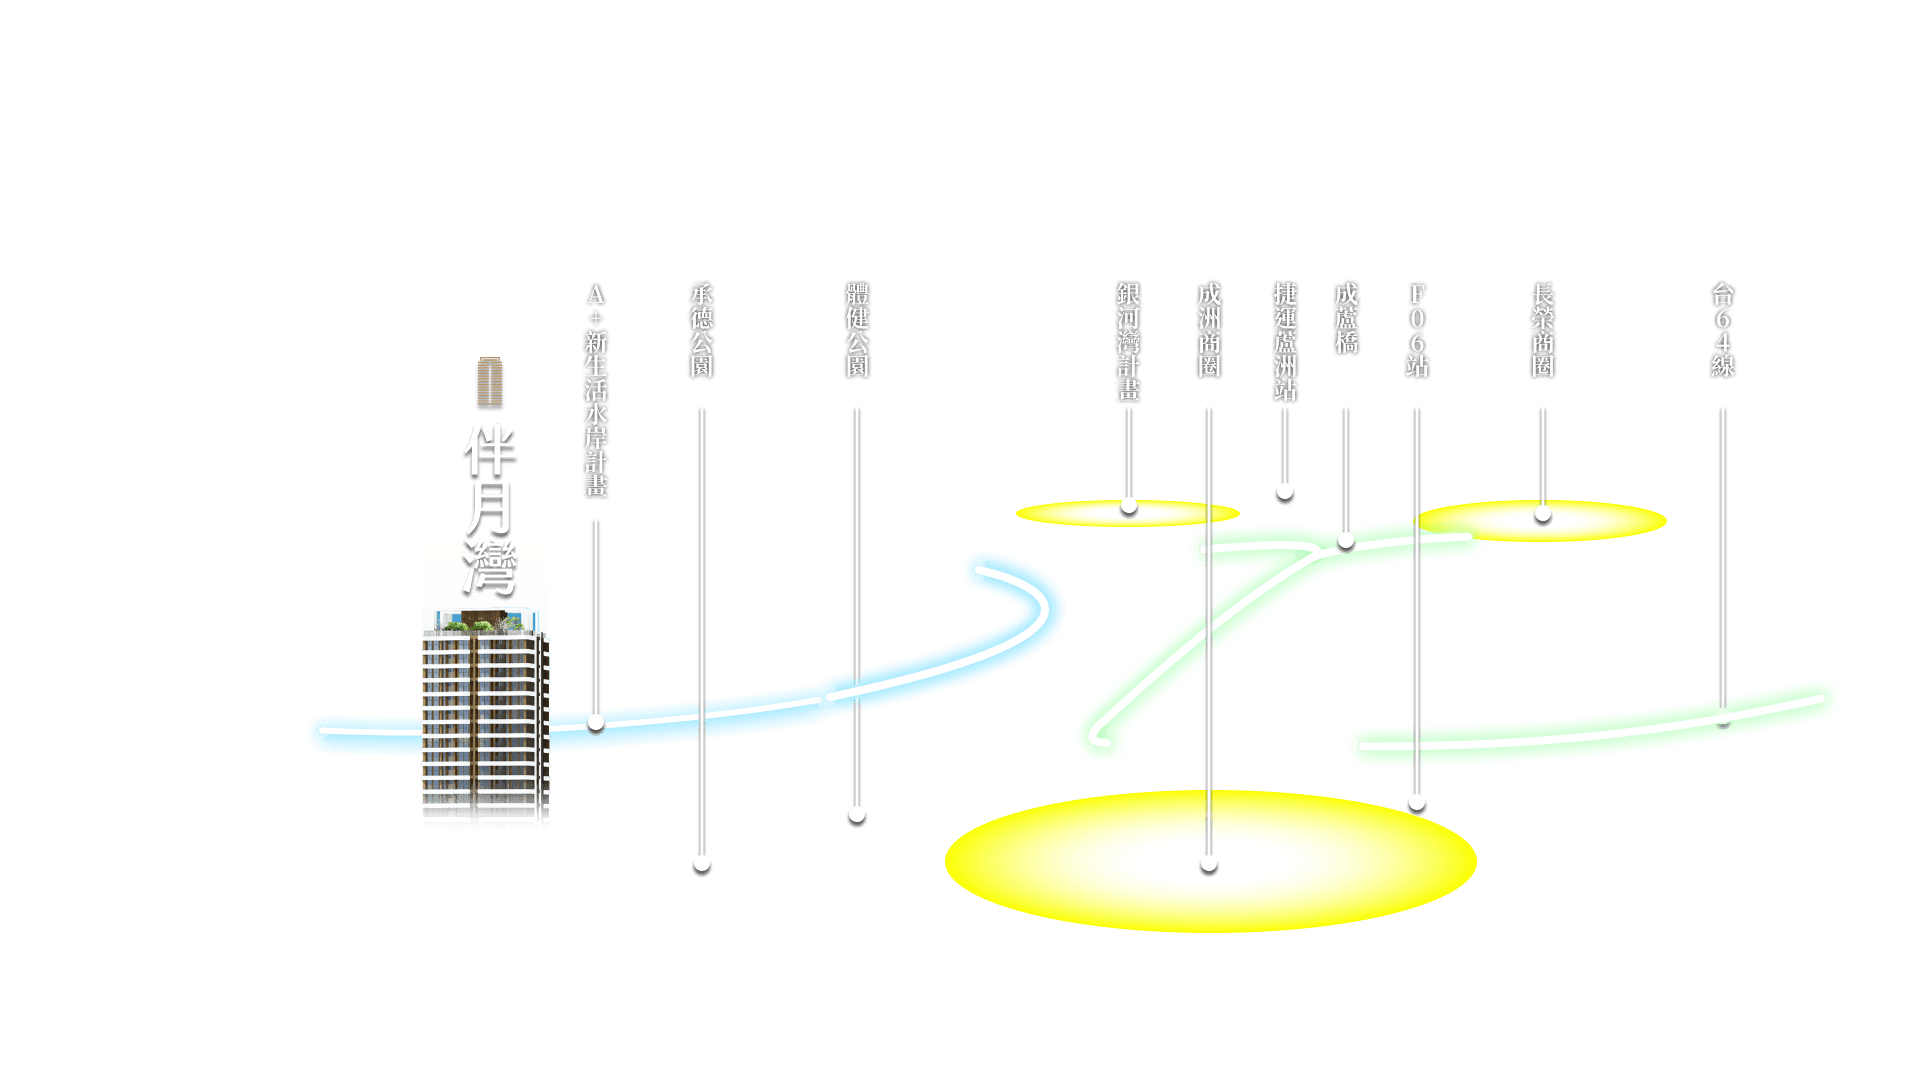
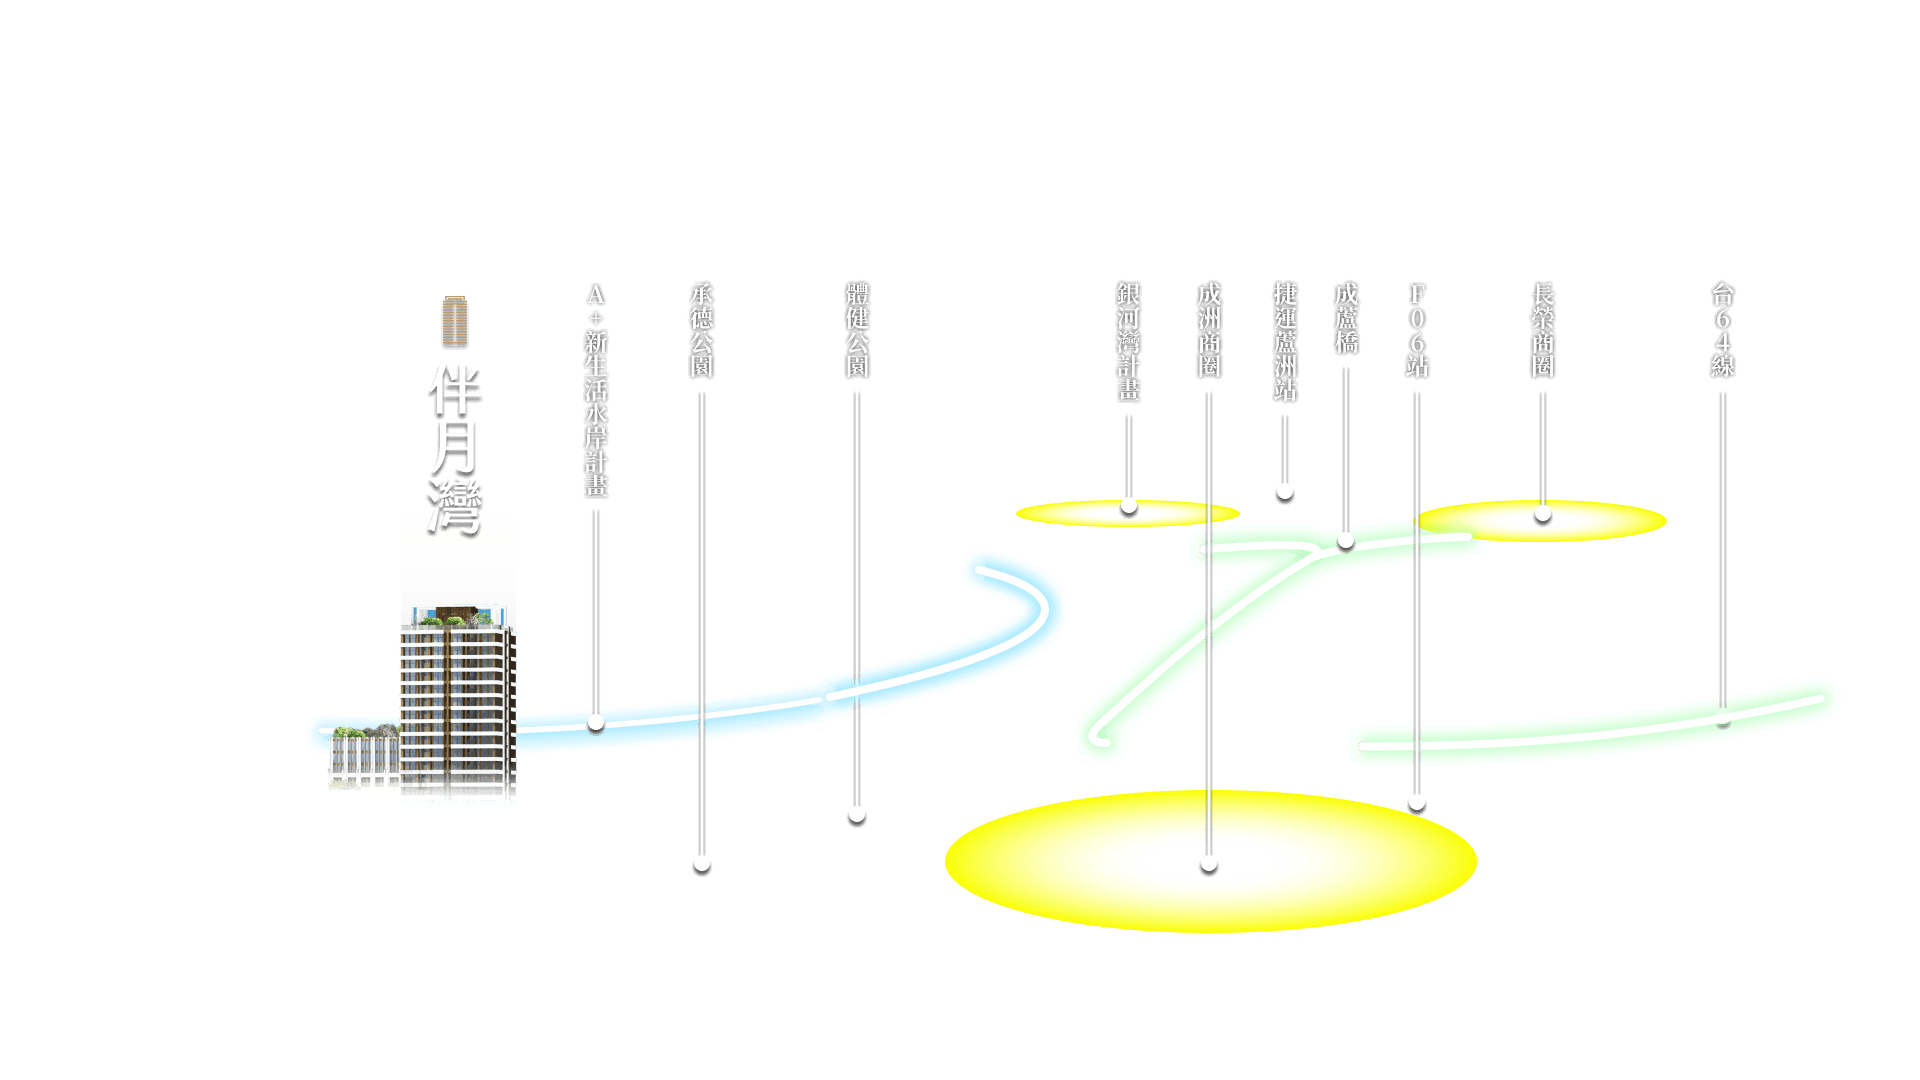
WV

Changed region(s): [[0.1562, 0.275, 0.3125, 0.7639]]

diff --git a/src/components/GodModView.vue b/src/components/GodModView.vue
@@ -2,6 +2,7 @@
   <div class="GodModView with-mask">
     <div class="view" ref="view">
       <img ref="viewImg" class="view-img" v-lazy :temp="bgUrl" alt="" />
+      <img ref="viewImg" class="view-img2" v-lazy :temp="bgUrl2" alt="" v-if="!isMobile" />
       <div class="view-hand" ref="viewHand" v-if="isMobile">
         <img v-lazy :temp="swipeUrl" alt="" />
       </div>
@@ -19,6 +20,7 @@
     width: 100%;
     overflow: hidden;
     cursor: ew-resize;
+    position: relative;
 
     .view-hand {
       position: absolute;
@@ -45,6 +47,11 @@
     .view-img {
       height: 100%;
       max-width: unset;
+    }
+    .view-img2{position: absolute;
+    left: 0;top: 0;
+    width: 100%;height: 100%;
+    object-fit: cover;
     }
   }
 }
@@ -91,7 +98,7 @@ export default {
       autoScrollView: true, //是否自動調整鳥瞰圖至建案位置 (手機板)
       autoScrollViewOffset: 150, //自動調整偏移微調
       viewAspectRatioPercentage: isMobile ? "150" : "46.82", // 鳥瞰圖比例 高÷寬×100
-      // bgUrl: require("@/projects/ruo/s2/bg.jpg"), //置換圖片路徑即可
+      bgUrl2: require('@/projects/wv/s3/view_t.png'), //置換圖片路徑即可
       swipeUrl: require("@/projects/wv/s3/swipe.svg"), //置換圖片路徑即可
     };
   },

diff --git a/src/components/Order.vue b/src/components/Order.vue
@@ -149,7 +149,6 @@
       </div>
       <img
         class="orderlogo"
-        v-if="!isMobile"
         src="@/projects/wv/logo.svg"
         alt=""
         srcset=""
@@ -651,6 +650,15 @@ img{position: absolute;animation: op 2s ease-in-out infinite alternate;opacity: 
     bottom: 1000px;
     transform: scale(1.5);
   }
+.orderlogo {
+  position: relative;
+  width: size-m(230);
+ //bottom: 940px;
+ // left: 50%;
+  //margin-left: size(-165);
+  margin: 0 auto 110vw;
+  z-index: 11;
+}
 
   .contact1 {
     left: -#{size-m(80)};
@@ -706,9 +714,6 @@ img{position: absolute;animation: op 2s ease-in-out infinite alternate;opacity: 
     }
     .order-top {
       background-image: $order_bg_image_m;
-      background-size: contain;
-    //  background-position: top;
-      background-repeat: repeat;
     background-position: 0 calc(100% - 508px );
       // top: 10vw;
       padding-bottom: 0;
@@ -718,7 +723,7 @@ img{position: absolute;animation: op 2s ease-in-out infinite alternate;opacity: 
     .order {
       width: 85% !important;
       padding: 0;
-    margin: 0 auto 150vw;
+    margin: 0 auto 20vw;
     }
 
     .form {

diff --git a/src/projects/wv/s7.vue b/src/projects/wv/s7.vue
@@ -102,9 +102,10 @@
       .caption {
         position: absolute;
         font-size: size(14);
-        right: size(18);
-        bottom: size(12);
+        right: 1.28em;
+        bottom:0.86em;
         color: #fff;
+        text-shadow: 0 0 0.2em #000;
       }
     }
   }
@@ -213,11 +214,7 @@
         background-size: cover;
         background-position: center;
         .caption {
-          position: absolute;
           font-size: size-m(14);
-          right: size-m(18);
-          bottom: size-m(12);
-          color: #fff;
         }
       }
     }
@@ -343,8 +340,8 @@ export default {
       ],
       captions: [
         '3D外觀合成圖',
-        '空中花園示意圖',
         '中庭示意圖',
+        '空中花園示意圖',
       ]
     };
   },

diff --git a/src/projects/wv/s4.vue b/src/projects/wv/s4.vue
@@ -142,8 +142,10 @@
       .caption {
         position: absolute;
         font-size: size(14);
-        right: size(12);
-        bottom: size(12);
+        right: 0.86em;
+        bottom:0.86em;
+        color: #fff;
+        text-shadow: 0 0 0.2em #000;
       }
     }
   }
@@ -202,11 +204,7 @@
           cursor: pointer;
         }
         .caption {
-          position: absolute;
           font-size: size-m(14);
-          right: size-m(12);
-          bottom: size-m(12);
-          color: #fff;
         }
       }
     }
@@ -261,7 +259,7 @@ export default {
       ],
       captions: [
         '副都心站',
-        '蘆洲站',
+        '副都心站',
         '蘆洲站'
       ]
     };

diff --git a/src/projects/wv/s3.vue b/src/projects/wv/s3.vue
@@ -9,9 +9,10 @@
         "
       />
     </div>
+    <!--
     <div class="vtitle" v-if="!isMobile" data-aos="fade" data-aos-delay="200">
       <img src="@/projects/wv/s3/view_t.png" alt="" srcset="" />
-    </div>
+    </div> -->
     <div class="t" v-if="!isMobile">
       <div class="left">
         <img

diff --git a/contact-form.php b/contact-form.php
@@ -1,5 +1,4 @@
 <?php
-
 #下3段式抓 為案件編號 $case_code
 #$case_code_test 是用來判斷是否為1的測試頁
 #$case_code = "jw";特殊案使用
@@ -23,12 +22,6 @@ $phone        = isset($_POST['phone']) ? $_POST['phone'] : '';
 $user_email   = isset($_POST['email']) ? $_POST['email'] : '';
 $city         = isset($_POST['city']) ? $_POST['city'] : '';
 $area         = isset($_POST['area']) ? $_POST['area'] : '';
-$gender       = isset($_POST['gender']) ? $_POST['gender'] : '';
-$infosource   = isset($_POST['infosource']) ? $_POST['infosource'] : '';
-$parking      = isset($_POST['parking']) ? $_POST['parking'] : '';
-$houseStyle   = isset($_POST['houseStyle']) ? $_POST['houseStyle'] : '';
-$room         = isset($_POST['room']) ? $_POST['room'] : '';
-$contacttime  = isset($_POST['contacttime']) ? $_POST['contacttime'] : '';
 $msg          = isset($_POST['msg']) ? $_POST['msg'] : '';
 $utm_source   = isset($_POST['utm_source']) ? $_POST['utm_source'] : '';
 $utm_medium   = isset($_POST['utm_medium']) ? $_POST['utm_medium'] : '';
@@ -37,7 +30,7 @@ $utm_campaign = isset($_POST['utm_campaign']) ? $_POST['utm_campaign'] : '';
 $datetime     = date("Y-m-d H:i:s", mktime(date('H'), date('i'), date('s'), date('m'), date('d'), date('Y')));
 
 # 鳳翔 fs 客製資料：房型
-$house        = isset($_POST['house']) ? $_POST['house'] : '';
+$room_type        = isset($_POST['room_type']) ? $_POST['room_type'] : '';
 
 # 好站 hj 客製資料：可聯絡時間
 $time_start        = isset($_POST['time_start']) ? $_POST['time_start'] : '';
@@ -80,6 +73,11 @@ if ($utm_campaign == '') {
 
 $datetime = date("Y-m-d H:i:s", mktime(date('H'), date('i'), date('s'), date('m'), date('d'), date('Y')));
 # 不同版本前端相容 End
+
+# PDO DB 連線 Start
+$pdo = new pdo('mysql:host=localhost;dbname=htw_web', 'htw', '748aSgl5Ni');
+$pdo->exec("SET NAMES 'utf8'");
+# PDO DB 連線 End
 
 $bCheck = true; //信件檢查
 
@@ -253,11 +251,7 @@ $mail->From = "noreply@h35.tw"; //設定寄件者信箱
 $mail->FromName = $case_name . " - 官網網站"; //設定寄件者姓名
 
 $mail->Subject = $case_name . " - 官網網站"; //設定郵件標題
-$mail->Body = "網站：https://" . $src . "/<BR>姓名：" . $name . "<BR>手機：" . $phone . "<BR>居住城市：" . $city . "<BR>居住地區：" . $area . "<BR>留言：" . $msg . "<BR>備註：" . "<BR><BR>填表日期：" . $datetime . "<BR>廣告來源：" . $utm_source . "<BR>廣告媒介：" . $utm_medium . "<BR>廣告名稱：" . $utm_campaign . "<BR>廣告內容：" . $utm_content; //設定郵件內容
-$mail->IsHTML(true); //設定郵件內容為HTML
-
-$tomail_arr = explode(",", $tomail);
-
+$mail->Body = "網站：https://" . $src . "/<BR>姓名：" . $name . "<BR>電話：" . $phone . "<BR>城市：" . $city . $area . "<BR>需求房型：". $room_type ."<BR>留言：" . $msg . "<BR><BR>填表日期：" . $datetime . "<BR>廣告來源：" . $utm_source . "<BR>廣告媒介：" . $utm_medium . "<BR>廣告名稱：" . $utm_campaign . "<BR>廣告內容：" . $utm_content; //設定郵件內容
 $mail->IsHTML(true); //設定郵件內容為HTML
 
 $tomail_arr = explode(",", $tomail);
@@ -275,7 +269,8 @@ if ($bCheck == true) { //if start
         $url .= "&email=" . $user_email;
         $url .= "&city=" . $city;
         $url .= "&area=" . $area;
-        $url .= "&message=" . "留言：" . $msg;
+        $url .= "&room_type=" . $room_type;
+        $url .= "&message=".$msg;
         $url .= "&utm_source=" . $utm_source;
         $url .= "&utm_medium=" . $utm_medium;
         $url .= "&utm_content=" . $utm_content;

diff --git a/index.php b/index.php
@@ -1,0 +1,1 @@
+<!DOCTYPE html><html lang=zh_TW><head><meta charset=utf-8><meta http-equiv=X-UA-Compatible content="IE=edge"><meta name=viewport content="width=device-width,initial-scale=1"> <?php include('head.php'); ?> <!--[if IE]><link rel="icon" href="/favicon.png" /><![endif]--><link href=/css/app.17677504.css rel=preload as=style><link href=/css/chunk-vendors.4d31623c.css rel=preload as=style><link href=/js/app.4fbe106f.js rel=preload as=script><link href=/js/chunk-vendors.df546d1b.js rel=preload as=script><link href=/css/chunk-vendors.4d31623c.css rel=stylesheet><link href=/css/app.17677504.css rel=stylesheet><link rel=icon type=image/png sizes=32x32 href=/img/icons/favicon-32x32.png><link rel=icon type=image/png sizes=16x16 href=/img/icons/favicon-16x16.png><link rel=manifest href=/manifest.json><meta name=theme-color content=#4DBA87><meta name=apple-mobile-web-app-capable content=no><meta name=apple-mobile-web-app-status-bar-style content=default><meta name=apple-mobile-web-app-title content=vue-house><link rel=apple-touch-icon href=/img/icons/apple-touch-icon-152x152.png><link rel=mask-icon href=/img/icons/safari-pinned-tab.svg color=#4DBA87><meta name=msapplication-TileImage content=/img/icons/msapplication-icon-144x144.png><meta name=msapplication-TileColor content=#000000></head><body><noscript><strong>We're sorry but vue-house doesn't work properly without JavaScript enabled. Please enable it to continue.</strong></noscript><div id=app></div><div id=fb-root></div><script async defer crossorigin=anonymous src="https://connect.facebook.net/zh_TW/sdk.js#xfbml=1&version=v3.2&appId=542185515968935&autoLogAppEvents=1"></script><link rel=stylesheet type=text/css href=//cdn.jsdelivr.net/npm/slick-carousel@1.8.1/slick/slick.css><script src="https://www.google.com/recaptcha/api.js?onload=vueRecaptchaApiLoaded&render=explicit" async defer></script><script src=/js/chunk-vendors.df546d1b.js></script><script src=/js/app.4fbe106f.js></script></body></html>
